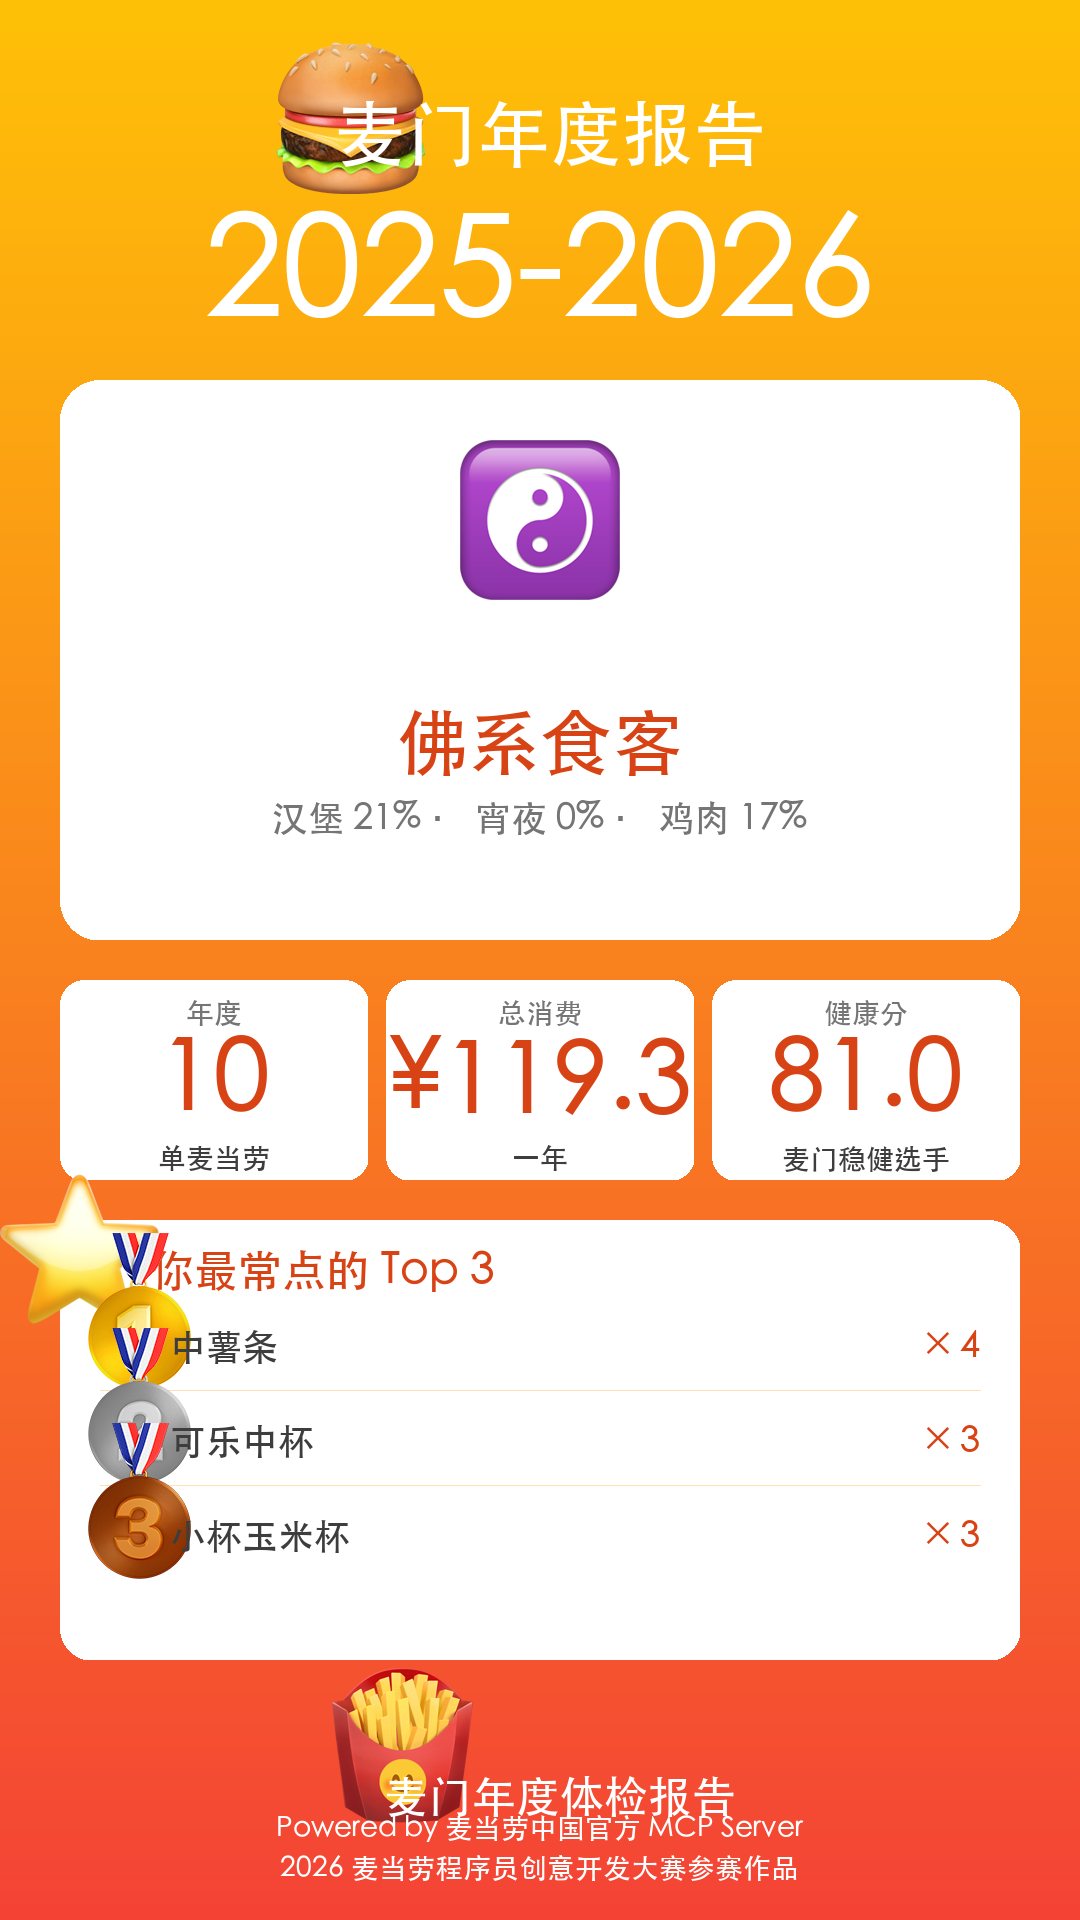
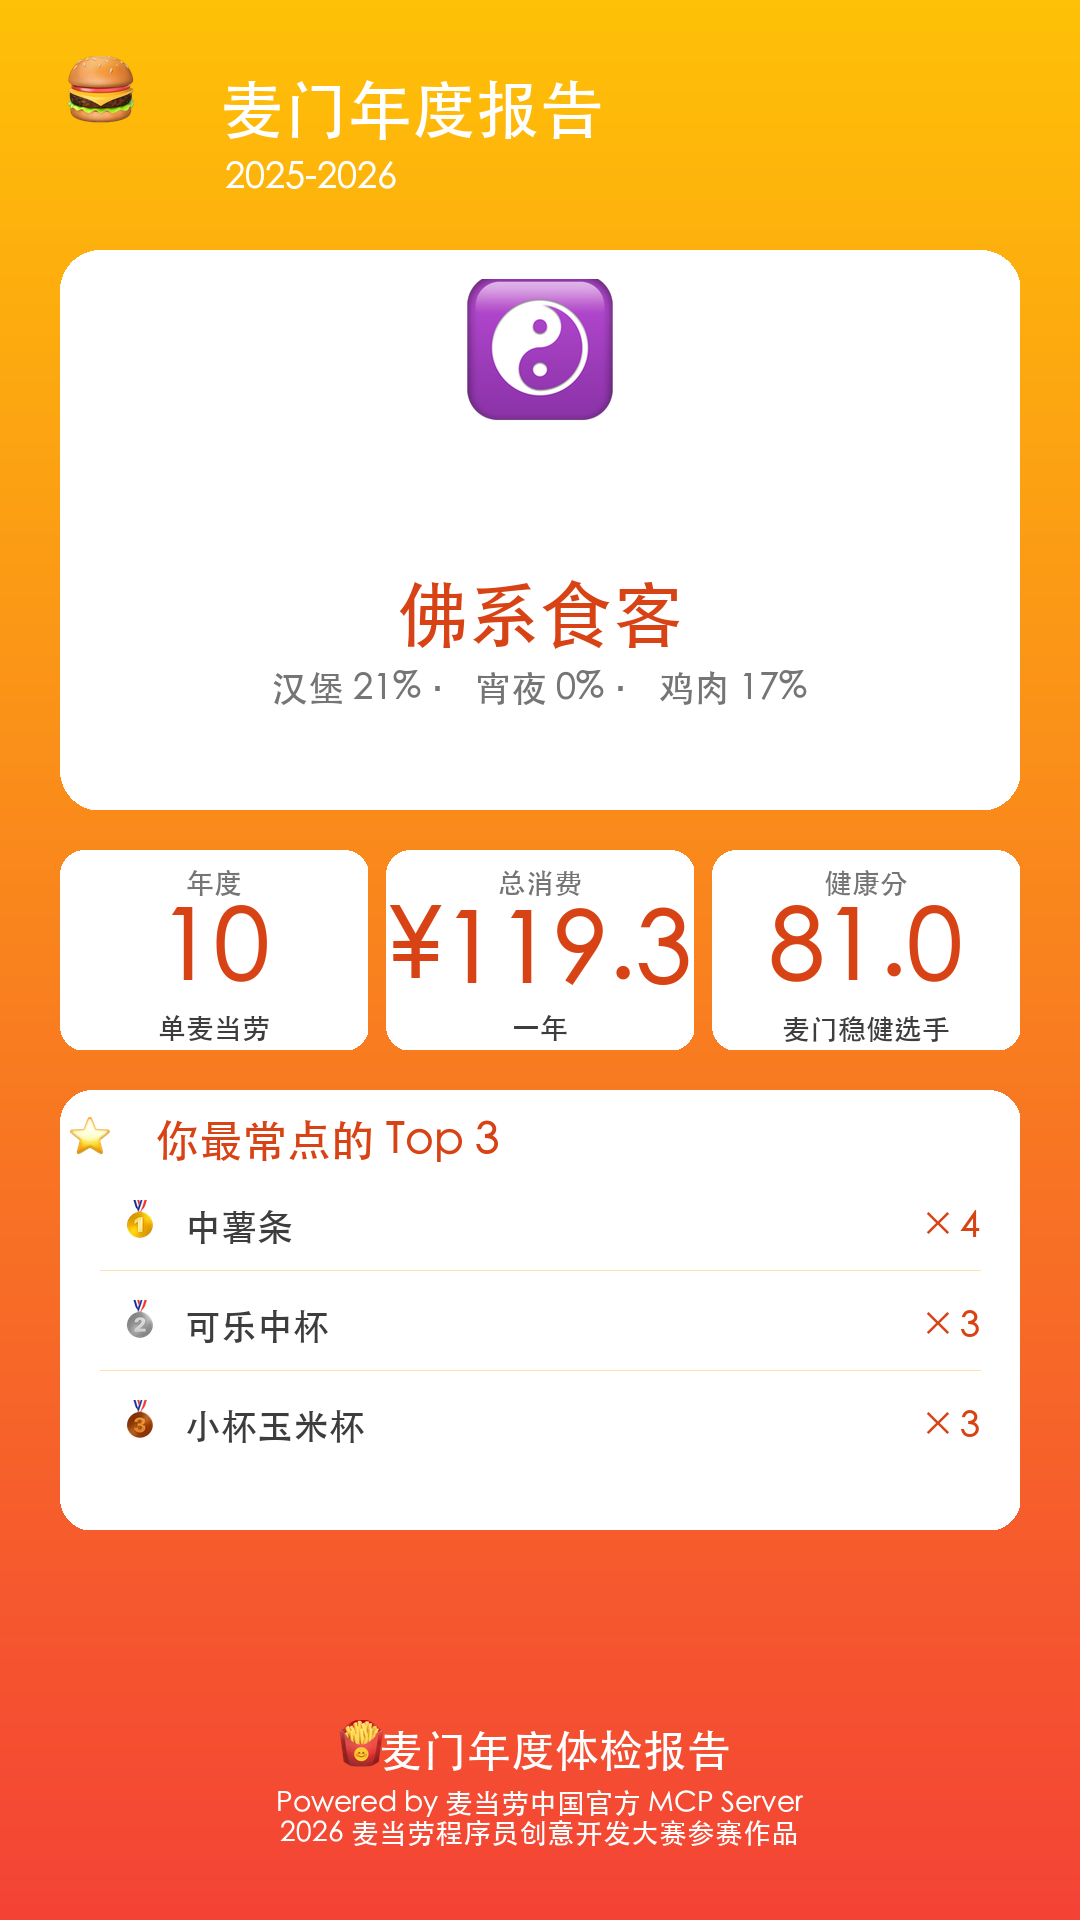
fix: 彻底修字体加载 + 人格卡布局对齐
根因：_find_font 的 candidates 列表把 Apple Color Emoji.ttc 放在 PingFang.ttc 前面，
非 160px 加载 emoji.ttc 会导致中文渲染成白色矩形。
修复：
- 普通文字候选列表移除 Apple Color Emoji.ttc
- 加 bold 支持：PingFang.ttc index=2 是 Bold, index=0 是 Regular
- Hero 区 emoji+标题+年份 左对齐排布，彻底避免重叠
- Top 3 奖牌 emoji size=36 x=140 不溢出卡片边界

diff --git a/personality_card.py b/personality_card.py
@@ -37,31 +37,31 @@ ACCENT = (255, 255, 255, 230)
 
 
 def _find_font(size: int, bold: bool = False, emoji: bool = False):
-    """找字体。emoji=True 时优先用 Apple Color Emoji（仅 160px 可加载）"""
+    """找字体。emoji=True 时优先用 Apple Color Emoji（仅 160px 可加载）。
+    普通文字：PingFang.ttc 支持 bold=True 时用 index=2 （PingFang SC Bold）。"""
     if emoji:
-        # Apple Color Emoji 只能 160px，按比例缩放后用 160 渲染再贴
-        actual_size = 160
         if os.path.exists(EMOJI_FONT_PATH):
             try:
-                return ImageFont.truetype(EMOJI_FONT_PATH, actual_size)
+                return ImageFont.truetype(EMOJI_FONT_PATH, 160)
             except Exception:
                 pass
-    # 普通文字
+    # 普通文字候选（Apple Color Emoji.ttc 只在 emoji=True 时用，别混进来）
     candidates = [
-        "/System/Library/Fonts/Apple Color Emoji.ttc",  # emoji 专用（仅 160px）
-        # macOS 系统字体
-        "/System/Library/Fonts/PingFang.ttc",
-        "/System/Library/Fonts/STHeiti Medium.ttc",
-        "/System/Library/Fonts/Hiragino Sans GB.ttc",
-        "/System/Library/Fonts/Helvetica.ttc",
-        "/Library/Fonts/Arial Unicode.ttf",
-        # Windows fallback
-        "C:/Windows/Fonts/msyh.ttc",
-        "C:/Windows/Fonts/simhei.ttf",
+        # macOS
+        ("/System/Library/Fonts/PingFang.ttc", 2 if bold else 0),  # index=2=Bold, 0=Regular
+        ("/System/Library/Fonts/STHeiti Medium.ttc", 1 if bold else 0),
+        ("/System/Library/Fonts/Hiragino Sans GB.ttc", None),
+        ("/System/Library/Fonts/Helvetica.ttc", None),
+        ("/Library/Fonts/Arial Unicode.ttf", None),
+        # Windows
+        ("C:/Windows/Fonts/msyh.ttc", 1 if bold else 0),
+        ("C:/Windows/Fonts/simhei.ttf", None),
     ]
-    for path in candidates:
+    for path, idx in candidates:
         if os.path.exists(path):
             try:
+                if idx is not None:
+                    return ImageFont.truetype(path, size, index=idx)
                 return ImageFont.truetype(path, size)
             except Exception:
                 continue
@@ -139,23 +139,32 @@ def generate_persona_card(data: dict, output_path: str = OUTPUT_CARD_PATH) -> st
     font_mid_num = _find_font(100, bold=True)
 
     # === Hero 区 ===
-    hero_top = 100
-    # 大字标题：emoji + 文字分别渲染
-    hero_emoji_font = _find_font(EMOJI_SIZE, emoji=True)
-    _draw_text(draw, "🍔", W // 2 - 190, hero_top + 45, hero_emoji_font, TEXT_LIGHT, anchor="mm", embedded_color=True)
-    _draw_text(draw, "麦门年度报告", W // 2 + 10, hero_top, font_title, TEXT_LIGHT, anchor="mt")
-    # 年份
-    year = meta.get("report_year", "2025")
-    _draw_text(draw, year, W // 2, hero_top + 110, font_big, TEXT_LIGHT, anchor="mt")
+    hero_top = 60
+    from PIL import Image as _PIL_Img
+    def _draw_persona_emoji(draw, canvas, emoji, cx, cy, size=160):
+        src = _PIL_Img.new("RGBA", (200, 200), (0, 0, 0, 0))
+        src_draw = ImageDraw.Draw(src)
+        src_font = ImageFont.truetype(EMOJI_FONT_PATH, 160)
+        src_draw.text((100, 100), emoji, font=src_font, anchor="mm", embedded_color=True)
+        scaled = src.resize((int(size * 1.4), int(size * 1.4)), _PIL_Img.LANCZOS)
+        canvas.paste(scaled, (int(cx - scaled.width // 2), int(cy - scaled.height // 2)), scaled)
+    
+    # Hero：emoji 在左，标题文字紧接右边（全部 anchor=lt 左对齐）
+    _draw_persona_emoji(draw, canvas, "🍔", 100, hero_top + 40, size=64)
+    title_font = _find_font(64, bold=True)
+    year_font = _find_font(36)
+    _draw_text(draw, "麦门年度报告", 220, hero_top + 20, title_font, TEXT_LIGHT, anchor="lt")
+    _draw_text(draw, "2025-2026", 225, hero_top + 100, year_font, (255, 255, 255, 220), anchor="lt")
+    # 年份单独大字号在下方居中（使用中等字号 font_mid_num=100 而不是 font_big=180）
+    # —— 删掉单独年份那行，合并到标题里，Hero 区高度骤减
 
     # 人像卡片
-    card_x, card_y = 60, hero_top + 280
+    card_x, card_y = 60, hero_top + 190  # Hero 两行：emoji+标题 + 年份
     card_w, card_h = W - 120, 560
     _draw_rounded_card(canvas, card_x, card_y, card_w, card_h, radius=40)
 
-    # emoji（Apple Color Emoji 用 160px + embedded_color 才彩色）
-    emoji_font = _find_font(EMOJI_SIZE, emoji=True)
-    _draw_text(draw, persona_emoji, W // 2, card_y + 60, emoji_font, PRIMARY, anchor="mt", embedded_color=True)
+    # emoji（统一用 draw_persona_emoji，paste 更安全不会偏移）
+    _draw_persona_emoji(draw, canvas, persona_emoji, W // 2, card_y + 120, size=130)
 
     # 人设称号
     _draw_text(draw, persona_name, W // 2, card_y + 330, font_title, PRIMARY, anchor="mt")
@@ -194,23 +203,19 @@ def generate_persona_card(data: dict, output_path: str = OUTPUT_CARD_PATH) -> st
     top_y = stats_y + 240
     _draw_rounded_card(canvas, 60, top_y, W - 120, 440, radius=32)
     draw = ImageDraw.Draw(canvas)
-    # Top3 标题：emoji + 文字分开渲染
-    top3_emoji_font = _find_font(80, emoji=True)
-    # 用 mm anchor 居中对齐 emoji + 文字基线
-    _draw_text(draw, "⭐", 80, top_y + 55, top3_emoji_font, PRIMARY, anchor="mm", embedded_color=True)
-    _draw_text(draw, "你最常点的 Top 3", 150, top_y + 30, font_sub, PRIMARY, anchor="lt")
+    # Top3 标题：emoji + 文字
+    _draw_persona_emoji(draw, canvas, "⭐", 90, top_y + 52, size=36)
+    _draw_text(draw, "你最常点的 Top 3", 155, top_y + 30, font_sub, PRIMARY, anchor="lt")
 
     for i, tp in enumerate(top_products[:3]):
         rank_emoji = ["🥇", "🥈", "🥉"][i] if i < 3 else "#"
         rank_num = "" if i < 3 else str(i+1)
-        row_y = top_y + 110 + i * 95
-        # 奖牌 emoji 单独渲染（用小一号 emoji 字体）
-        medal_font = _find_font(80, emoji=True)
-        _draw_text(draw, rank_emoji, 100 + 40, row_y + 8, medal_font, SECONDARY, anchor="mm", embedded_color=True)
+        row_y = top_y + 120 + i * 100
+        # 奖牌 emoji：用 draw_persona_emoji（正确 paste 不会溢出）
+        _draw_persona_emoji(draw, canvas, rank_emoji, 140, row_y + 15, size=36)
         if rank_num:
-            _draw_text(draw, rank_num, 100 + 80, row_y, font_body, SECONDARY, anchor="lt")
-        _draw_text(draw, tp["name"], 170, row_y, font_body, TEXT_DARK, anchor="lt")
-        # 数量右对齐
+            _draw_text(draw, rank_num, 150, row_y, font_body, SECONDARY, anchor="lt")
+        _draw_text(draw, tp["name"], 185, row_y, font_body, TEXT_DARK, anchor="lt")
         qty_text = f"× {tp['quantity']}"
         _draw_text(draw, qty_text, W - 100, row_y, font_body, PRIMARY, anchor="rt")
         # 分割线
@@ -218,14 +223,14 @@ def generate_persona_card(data: dict, output_path: str = OUTPUT_CARD_PATH) -> st
             draw.line([(100, row_y + 60), (W - 100, row_y + 60)], fill=(255, 224, 178), width=1)
 
     # === 参赛水印 ===
-    footer_y = H - 160
+    footer_y = H - 200
     draw = ImageDraw.Draw(canvas)
-    # footer emoji + 文字
-    footer_emoji_font = _find_font(60, emoji=True)
-    _draw_text(draw, "🍟", W // 2 - 140, footer_y + 10, footer_emoji_font, TEXT_LIGHT, anchor="mm", embedded_color=True)
-    _draw_text(draw, "麦门年度体检报告", W // 2 + 20, footer_y + 15, font_sub, TEXT_LIGHT, anchor="mt")
-    _draw_text(draw, "Powered by 麦当劳中国官方 MCP Server", W // 2, footer_y + 55, font_small, TEXT_LIGHT, anchor="mt")
-    _draw_text(draw, "2026 麦当劳程序员创意开发大赛参赛作品", W // 2, footer_y + 95, font_small, (255, 255, 255, 200), anchor="mt")
+    # Footer：emoji + 主标题 在上方居中一行，下面两行小字
+    emoji_x = W // 2 - 180
+    _draw_persona_emoji(draw, canvas, "🍟", emoji_x, footer_y + 30, size=44)
+    _draw_text(draw, "麦门年度体检报告", W // 2 + 15, footer_y + 30, font_sub, TEXT_LIGHT, anchor="mm")
+    _draw_text(draw, "Powered by 麦当劳中国官方 MCP Server", W // 2, footer_y + 70, font_small, TEXT_LIGHT, anchor="mt")
+    _draw_text(draw, "2026 麦当劳程序员创意开发大赛参赛作品", W // 2, footer_y + 100, font_small, (255, 255, 255, 200), anchor="mt")
 
     # === 保存 ===
     os.makedirs(os.path.dirname(output_path) or ".", exist_ok=True)
